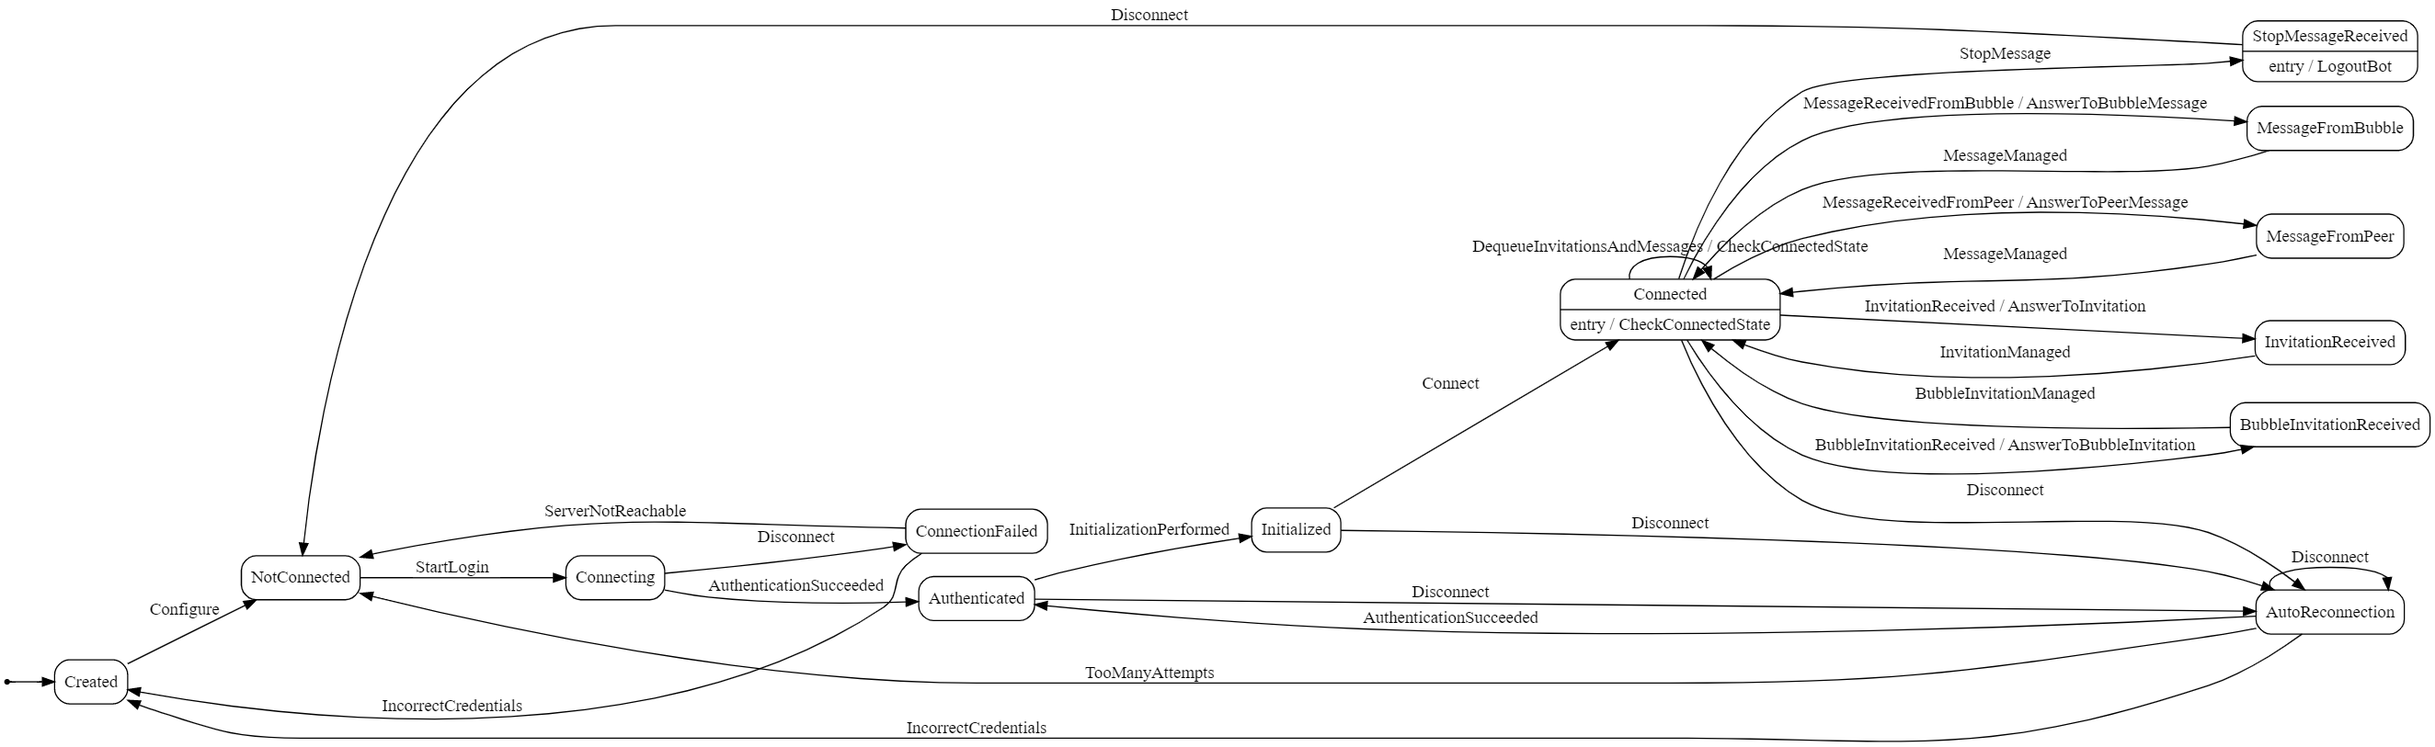
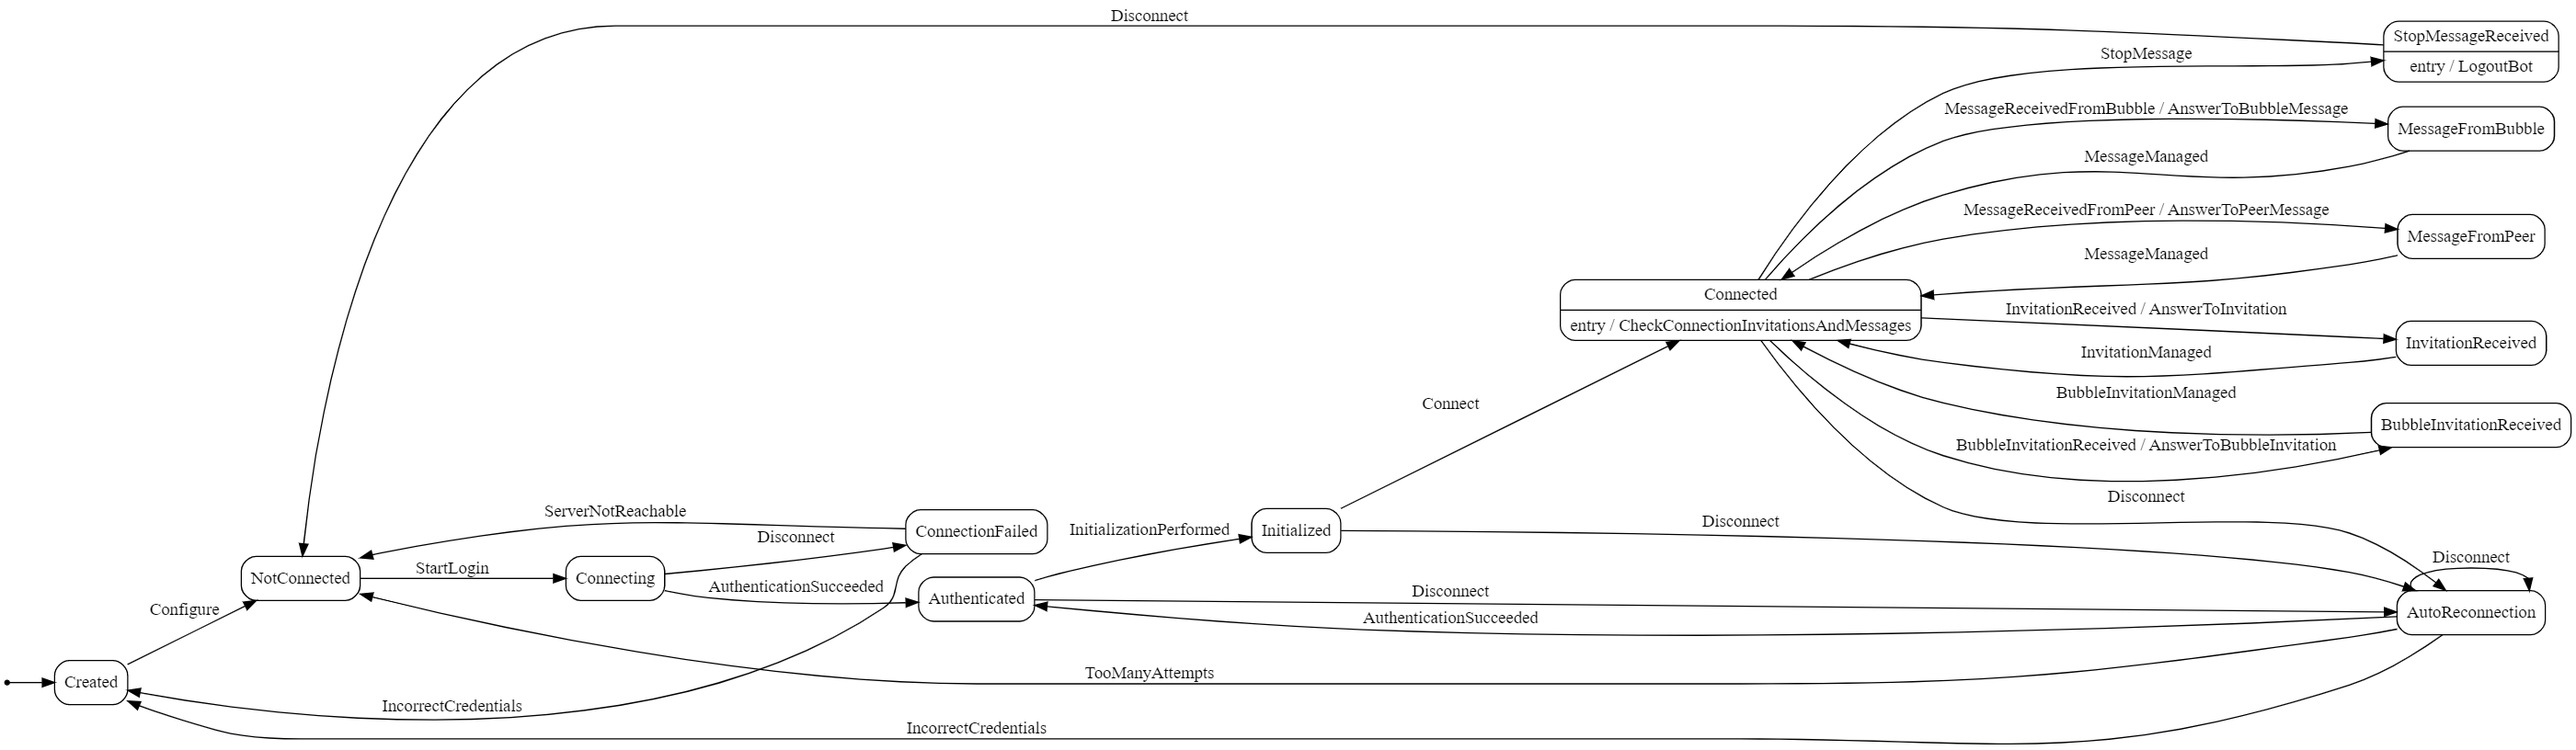
BotBase: Simplify a little the state machine bot and enhance bubble invitations process

diff --git a/Bot/BotBase/RainbowBotBase.cs b/Bot/BotBase/RainbowBotBase.cs
@@ -13,10 +13,7 @@ namespace RainbowBotBase
 {
     public class RainbowBotBase
     {
-        private readonly String STOP_MESSAGE = "Bot please stop";
-        private readonly String AUTOMATIC_ANSWER_P2P = "Automatic answer ! I'm a Bot using SDK C# :). Thanks for your message ! [P2P]";
-        private readonly String AUTOMATIC_ANSWER_BUBBLE = "Automatic answer ! I'm a Bot using SDK C# :). Thanks for your message ! [Bubble]";
-        private readonly int MESSAGE_READ_BY_SECOND = 10; // nb messages READ by seconds. We will wait the necessary delay to read the next one. No message are lost. They are just read step by step avoiding a flood
+        
 
         /// <summary>
         /// State list used by this bot
@@ -60,8 +57,6 @@ namespace RainbowBotBase
 
             TooManyAttempts,
 
-            DequeueInvitationsAndMessages,
-
             MessageReceivedFromBubble,
             MessageReceivedFromPeer,
             StopMessage,
@@ -80,7 +75,7 @@ namespace RainbowBotBase
         // The TriggerWithParameters object is used when a trigger requires a payload.
         private StateMachine<State, Trigger>.TriggerWithParameters<MessageEventArgs>? _messageReceivedFromBubbleTrigger;
         private StateMachine<State, Trigger>.TriggerWithParameters<MessageEventArgs>? _messageReceivedFromPeerTrigger;
-        private StateMachine<State, Trigger>.TriggerWithParameters<BubbleInvitationEventArgs>? _bubbleInvitationReceivedTrigger;
+        private StateMachine<State, Trigger>.TriggerWithParameters<String>? _bubbleInvitationReceivedTrigger;
         private StateMachine<State, Trigger>.TriggerWithParameters<InvitationEventArgs>? _invitationReceivedTrigger;
 
 
@@ -88,7 +83,8 @@ namespace RainbowBotBase
         private readonly ConcurrentQueue<MessageEventArgs> _messageQueue;
 
         // Concurrent queue of invitations received to be  member of a bubble
-        private readonly ConcurrentQueue<BubbleInvitationEventArgs> _bubbleInvitationQueue;
+        private readonly ConcurrentQueue<String> _bubbleInvitationQueue;
+        private readonly List<String> _bubbleInvitationInProgress = new List<String>();
 
         // Concurrent queue of invitations received to sare its presence with other users
         private readonly ConcurrentQueue<InvitationEventArgs> _invitationQueue;
@@ -122,7 +118,7 @@ namespace RainbowBotBase
             // Create Trigger(s) using parameters
             _messageReceivedFromPeerTrigger = _machine.SetTriggerParameters<MessageEventArgs>(Trigger.MessageReceivedFromPeer);
             _messageReceivedFromBubbleTrigger = _machine.SetTriggerParameters<MessageEventArgs>(Trigger.MessageReceivedFromBubble);
-            _bubbleInvitationReceivedTrigger = _machine.SetTriggerParameters<BubbleInvitationEventArgs>(Trigger.BubbleInvitationReceived);
+            _bubbleInvitationReceivedTrigger = _machine.SetTriggerParameters<String>(Trigger.BubbleInvitationReceived);
             _invitationReceivedTrigger = _machine.SetTriggerParameters<InvitationEventArgs>(Trigger.InvitationReceived);
 
             // Configure the Configured state
@@ -155,9 +151,7 @@ namespace RainbowBotBase
 
             // Configure the Connected state
             _machine.Configure(State.Connected)
-                .OnEntry(CheckConnectedState)
-
-                .PermitReentry(Trigger.DequeueInvitationsAndMessages)
+                .OnEntry(CheckConnectionInvitationsAndMessages)
 
                 .Permit(Trigger.Disconnect, State.AutoReconnection)
 
@@ -212,15 +206,19 @@ namespace RainbowBotBase
         }
 
         /// <summary>
-        /// To dequeue in this oreder: 
+        /// Check connection first then dequeue in this order: 
         ///     - invitations to share presence
         ///     - invitations to be a member of a bubble
         ///     - message received (we avoid a flod here using MESSAGE_READ_BY_SECOND variable)
         /// </summary>
-        private void DequeueInvitationsAndMessages()
+        private void CheckConnectionInvitationsAndMessages()
         {
-            // We have to dequeue invitations then bubble's invitation and finally messages
+            // Check first if are stille connected
+            if (!RbApplication.IsConnected())
+                FireTrigger(Trigger.Disconnect);
 
+
+            // We have to dequeue invitations then bubble's invitation and finally messages
 
             // Dequeue invitation
             if (_invitationQueue.TryDequeue(out InvitationEventArgs? invitation))
@@ -233,7 +231,7 @@ namespace RainbowBotBase
             }
 
             // Dequeue bubble's invitation
-            if (_bubbleInvitationQueue.TryDequeue(out BubbleInvitationEventArgs? bubbleInvitation))
+            if (_bubbleInvitationQueue.TryDequeue(out String? bubbleInvitation))
             {
                 if (bubbleInvitation != null)
                 {
@@ -247,7 +245,7 @@ namespace RainbowBotBase
             {
                 //  /!\ Here we add a protection to avoid to manage a flood of messages using a restriction: a nb of messages to read by sedonc (using MESSAGE_READ_BY_SECOND)
                 Boolean canReadMessage = false;
-                if (_messageDateList.Count < MESSAGE_READ_BY_SECOND)
+                if (_messageDateList.Count < RainbowApplicationInfo.MESSAGE_READ_BY_SECOND)
                 {
                     canReadMessage = true;
                     _messageDateList.Add(DateTime.Now);
@@ -283,7 +281,7 @@ namespace RainbowBotBase
                             if ((_masterBotJid != null) && _masterBotJid.Equals(_masterBotEmail, StringComparison.InvariantCultureIgnoreCase))
                             {
                                 // Check if it's the "stop message"
-                                if (messageEvent.Message.Content.Equals(STOP_MESSAGE, StringComparison.InvariantCultureIgnoreCase))
+                                if (messageEvent.Message.Content.Equals(RainbowApplicationInfo.STOP_MESSAGE, StringComparison.InvariantCultureIgnoreCase))
                                 {
                                     _machine.Fire(Trigger.StopMessage);
                                     return;
@@ -300,11 +298,23 @@ namespace RainbowBotBase
                         
                     }
                 }
-                else
-                {
-                    CancelableDelay.StartAfter(10, DequeueInvitationsAndMessages);
-                }
             }
+
+            CancelableDelay.StartAfter(10, CheckConnectionInvitationsAndMessages);
+        }
+
+        /// <summary>
+        /// To know if we are in status Invited in the specified Bubble 
+        /// </summary>
+        private Boolean? IsInvitedToBubble(Bubble? bubble)
+        {
+            if (bubble != null)
+            {
+                Bubble.Member? myself = bubble.Users.Find(member => member.UserId == _currentContact?.Id);
+
+                return (myself?.Status == Bubble.MemberStatus.Invited);
+            }
+            return null;
         }
 
         /// <summary>
@@ -324,7 +334,7 @@ namespace RainbowBotBase
             {
                 String conversationId = messageEvent.ConversationId;
 
-                RbInstantMessaging.SendMessageToConversationId(conversationId, AUTOMATIC_ANSWER_BUBBLE, null);
+                RbInstantMessaging.SendMessageToConversationId(conversationId, RainbowApplicationInfo.AUTOMATIC_ANSWER_BUBBLE, null);
             }
             FireTrigger(Trigger.MessageManaged);
         }
@@ -338,7 +348,7 @@ namespace RainbowBotBase
             {
                 String conversationId = messageEvent.ConversationId;
 
-                RbInstantMessaging.SendMessageToConversationId(conversationId, AUTOMATIC_ANSWER_P2P, null);
+                RbInstantMessaging.SendMessageToConversationId(conversationId, RainbowApplicationInfo.AUTOMATIC_ANSWER_P2P, null);
             }
             FireTrigger(Trigger.MessageManaged);
         }
@@ -346,11 +356,20 @@ namespace RainbowBotBase
         /// <summary>
         /// To answer to the specified invitations to be a member of a bubble
         /// </summary>
-        private void AnswerToBubbleInvitation(BubbleInvitationEventArgs? bubbleInvitation)
+        private void AnswerToBubbleInvitation(String? bubbleId)
         {
-            if(bubbleInvitation != null)
+            if (bubbleId != null)
             {
-                RbBubbles.AcceptInvitation(bubbleInvitation.BubbleId);
+                if (!_bubbleInvitationInProgress.Contains(bubbleId))
+                    _bubbleInvitationInProgress.Add(bubbleId);
+
+                RbBubbles.AcceptInvitation(bubbleId, callback =>
+                {
+                    if (!callback.Result.Success)
+                    {
+                        _bubbleInvitationInProgress.Remove(bubbleId);
+                    }
+                });
             }
 
             FireTrigger(Trigger.BubbleInvitationManaged);
@@ -367,19 +386,6 @@ namespace RainbowBotBase
             }
 
             FireTrigger(Trigger.InvitationManaged);
-        }
-
-        /// <summary>
-        /// On entry of the Connected State, we check the connection status with the server and if it's ok we dequeue invitations/messages
-        /// </summary>
-        private void CheckConnectedState()
-        {
-            // Check first if are stille connected
-            if (!RbApplication.IsConnected())
-                FireTrigger(Trigger.Disconnect);
-
-            // Now dequeue invitations, bubble's invitation or messages
-            DequeueInvitationsAndMessages();
         }
 
         /// <summary>
@@ -523,7 +529,23 @@ namespace RainbowBotBase
             _currentContact = RbContacts.GetCurrentContact();
 
             // We ask server all bubbles information. For each of them, the SDK will automatically "register" to them. It's mandatory to receive message send to a bubble.
-            RbBubbles.GetAllBubbles();
+            RbBubbles.GetAllBubbles(callback =>
+            {
+                if (callback.Result.Success)
+                {
+                    // We need to accept any invitation available from bubbles
+                    var bubbles = callback.Data;
+                    foreach (var bubble in bubbles)
+                    {
+                        if (IsInvitedToBubble(bubble) == true)
+                        {
+                            // Queue bubble invitation
+                            if (!_bubbleInvitationInProgress.Contains(bubble.Id))
+                                _bubbleInvitationQueue.Enqueue(bubble.Id);
+                        }
+                    }
+                }
+            });
 
             FireTrigger(Trigger.InitializationPerformed);
         }
@@ -555,10 +577,6 @@ namespace RainbowBotBase
         {
             // Queue invitation
             _invitationQueue.Enqueue(invitationEvent);
-
-            // If we are in state Connected, we ask to dequeue invitations and messages
-            if (_machine.IsInState(State.Connected))
-                _machine.Fire(Trigger.DequeueInvitationsAndMessages);
         }
 
         /// <summary>
@@ -567,11 +585,8 @@ namespace RainbowBotBase
         private void RbBubbles_BubbleInvitationReceived(object? sender, BubbleInvitationEventArgs bubbleInvitationEvent)
         {
             // Queue bubble invitation
-            _bubbleInvitationQueue.Enqueue(bubbleInvitationEvent);
-
-            // If we are in state Connected, we ask to dequeue invitations and messages
-            if (_machine.IsInState(State.Connected))
-                _machine.Fire(Trigger.DequeueInvitationsAndMessages);
+            if (!_bubbleInvitationInProgress.Contains(bubbleInvitationEvent.BubbleId))
+                _bubbleInvitationQueue.Enqueue(bubbleInvitationEvent.BubbleId);
         }
 
         /// <summary>
@@ -584,10 +599,6 @@ namespace RainbowBotBase
             {
                 // Queue message
                 _messageQueue.Enqueue(messageEvent);
-
-                // If we are in state Connected, we ask to dequeue invitations and messages
-                if (_machine.IsInState(State.Connected))
-                    _machine.Fire(Trigger.DequeueInvitationsAndMessages);
             }
         }
 
@@ -609,7 +620,7 @@ namespace RainbowBotBase
             ConfigureStateMachine();
 
             _messageQueue = new ConcurrentQueue<MessageEventArgs>();
-            _bubbleInvitationQueue = new ConcurrentQueue<BubbleInvitationEventArgs>();
+            _bubbleInvitationQueue = new ConcurrentQueue<String>();
             _invitationQueue = new ConcurrentQueue<InvitationEventArgs>();
 
             _messageDateList = new List<DateTime>();

diff --git a/Bot/BotBase/RainbowApplicationInfo.cs b/Bot/BotBase/RainbowApplicationInfo.cs
@@ -11,6 +11,11 @@ namespace RainbowBotBase
         // NLog configuration file used to log SDK debug information
         static internal readonly String NLOG_CONFIG_FILE_PATH = @"..\..\..\..\..\NLogConfiguration.xml";
 
+        static internal readonly String STOP_MESSAGE = "Bot please stop";
+        static internal readonly String AUTOMATIC_ANSWER_P2P = "Automatic answer ! I'm a Bot using SDK C# :). Thanks for your message ! [P2P]";
+        static internal readonly String AUTOMATIC_ANSWER_BUBBLE = "Automatic answer ! I'm a Bot using SDK C# :). Thanks for your message ! [Bubble]";
+        static internal readonly int MESSAGE_READ_BY_SECOND = 10; // nb messages READ by seconds. We will wait the necessary delay to read the next one. No message are lost. They are just read step by step avoiding a flood
+
         // DEFINE YOUR APP_ID,  APP_SECRET_KEY,  HOST_NAME etc...
         static internal readonly string APP_ID = DEFAULT_VALUE;
         static internal readonly string APP_SECRET_KEY = DEFAULT_VALUE;

diff --git a/Bot/BotBase/Program.cs b/Bot/BotBase/Program.cs
@@ -92,7 +92,6 @@ namespace RainbowBotBase
                 Console.WriteLine("Cannot configure the bot ...");
         }
 
-
         static Boolean InitLogsWithNLog()
         {
             try
